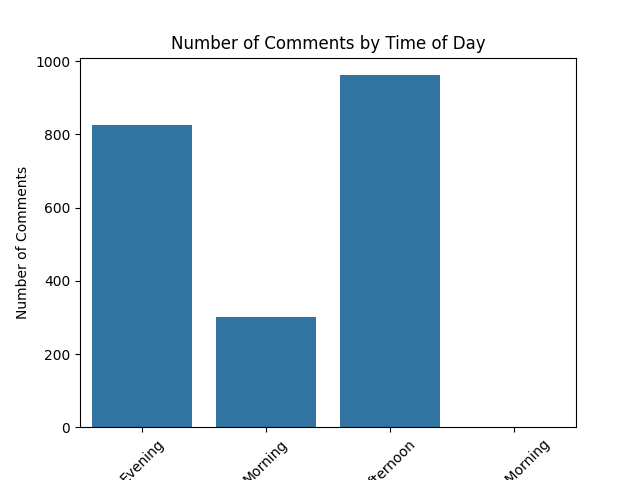
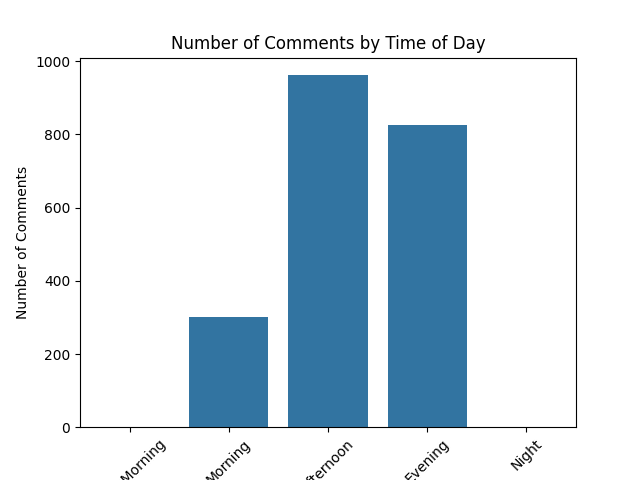
update

diff --git a/07_Project/data_visualization.py b/07_Project/data_visualization.py
@@ -38,13 +38,17 @@ print(df.info())  # Get information about the DataFrame
 # Data Visualization
 
 # 1. Bar Plot: Number of Comments by Time of Day
-sns.countplot(x='time_of_day', data=df)
+# Create a list of the time of day categories in the desired order
+time_of_day_order = ["Early Morning", "Morning", "Afternoon", "Evening", "Night"]
+# Number of Comments by Time of Day with specified order
+sns.countplot(x='time_of_day', data=df, order=time_of_day_order)
 plt.title('Number of Comments by Time of Day')
 plt.xlabel('Time of Day')
 plt.ylabel('Number of Comments')
 plt.xticks(rotation=45)  # Rotate x-axis labels for better readability
 plt.savefig('comments_by_time_of_day.png')  # Save the plot as an image file
 plt.close()
+
 
 # 2. Histogram: Distribution of Upvotes
 sns.histplot(df['upvotes'], bins=20)
